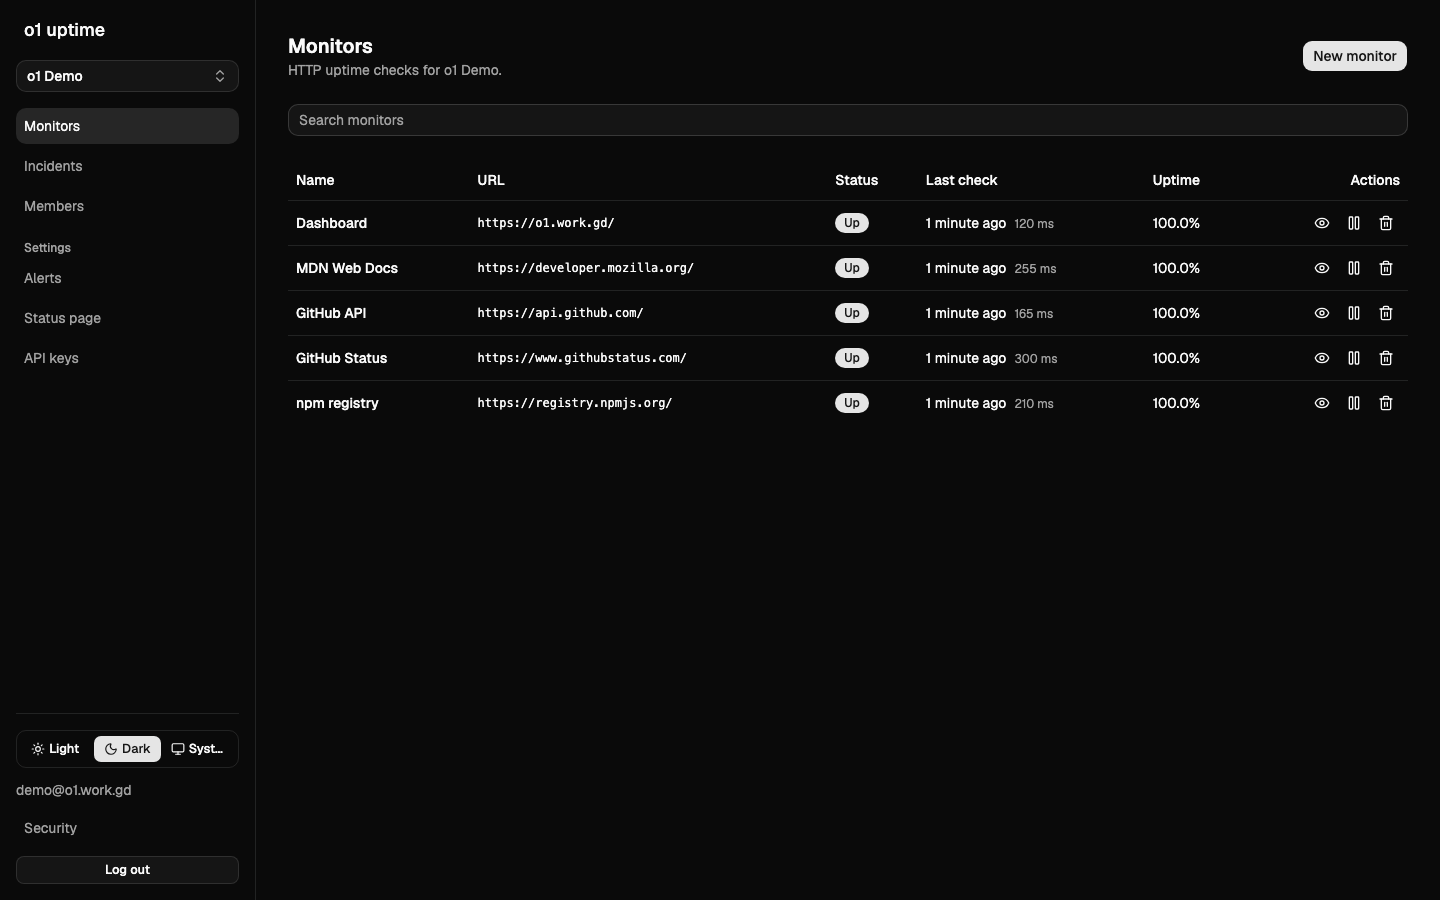
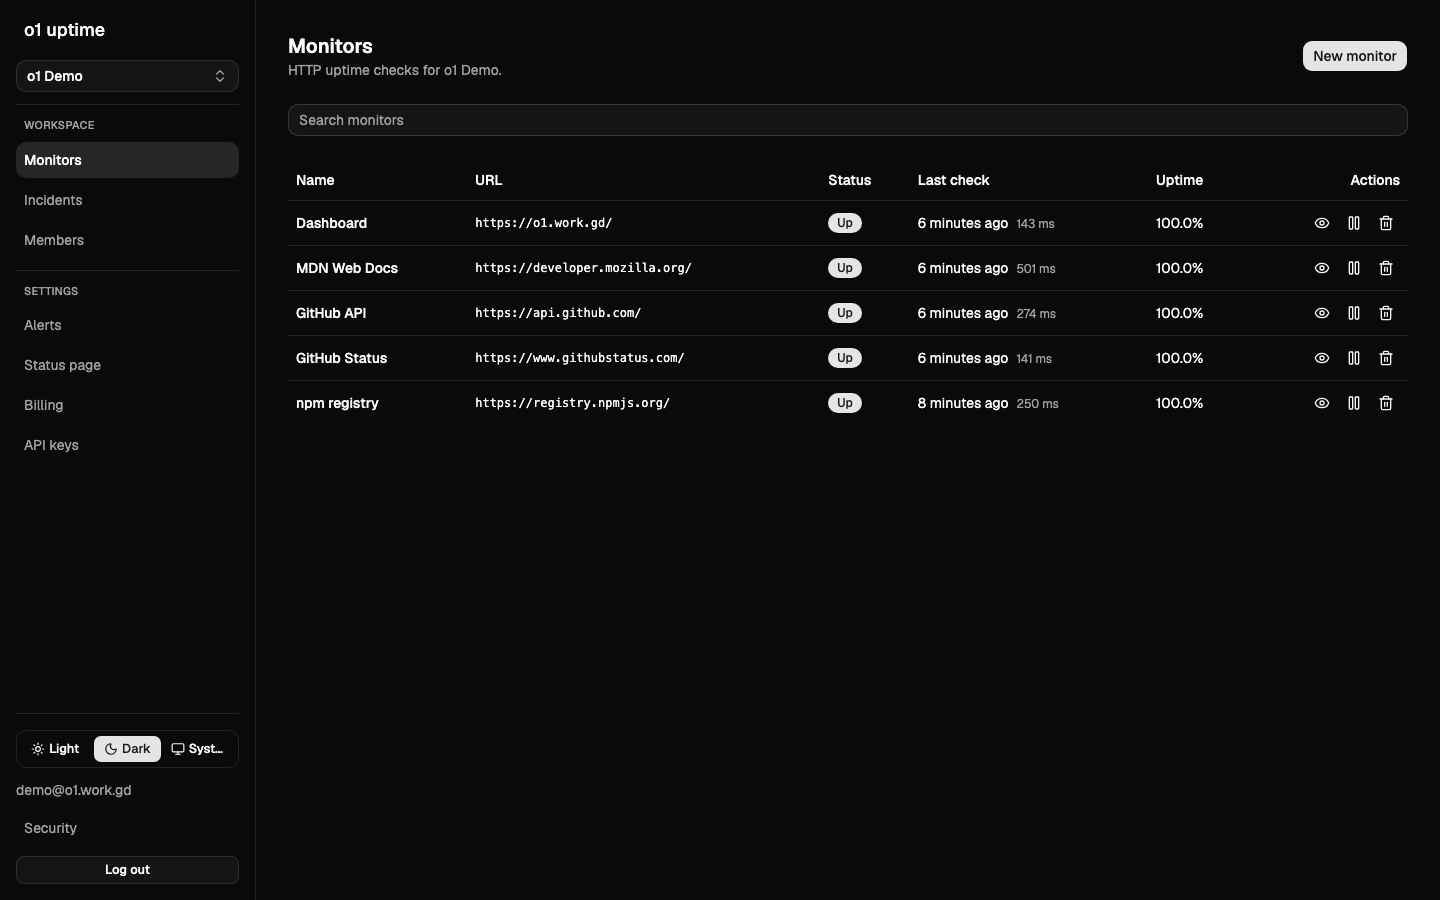
feat: group the sidebar navigation

diff --git a/web/src/components/layout/Sidebar.tsx b/web/src/components/layout/Sidebar.tsx
@@ -1,3 +1,4 @@
+import type { ReactNode } from 'react';
 import { Link } from '@tanstack/react-router';
 import { UserMenu } from './UserMenu';
 import { WorkspaceSwitcher } from './WorkspaceSwitcher';
@@ -11,61 +12,67 @@ export interface SidebarProps {
 }
 
 const linkClass =
-	'flex h-9 items-center rounded-lg px-2 text-sm text-muted-foreground hover:bg-muted hover:text-foreground [&[aria-current=page]]:text-foreground';
+	'flex h-9 items-center rounded-lg px-2 text-sm text-muted-foreground hover:bg-muted hover:text-foreground [&[aria-current=page]]:bg-muted [&[aria-current=page]]:font-medium [&[aria-current=page]]:text-foreground';
 const activeClass = 'bg-muted';
+
+function NavGroup({ title, children }: { title: string; children: ReactNode }) {
+	return (
+		<div className="space-y-1 border-t pt-3 first:border-t-0 first:pt-0">
+			<h2 className="px-2 pb-1 text-[11px] font-medium tracking-wide text-muted-foreground uppercase">
+				{title}
+			</h2>
+			{children}
+		</div>
+	);
+}
 
 export function Sidebar({ me, currentWorkspace, onNavigate }: SidebarProps) {
 	return (
-		<nav aria-label="Main" className="flex flex-1 flex-col gap-4">
+		<nav aria-label="Main" className="flex flex-1 flex-col gap-3">
 			<WorkspaceSwitcher
 				workspaces={me.workspaces}
 				current={currentWorkspace}
 				onNavigate={onNavigate}
 			/>
 
-			<div className="space-y-1">
-				{currentWorkspace ? (
-					<>
-						<Link
-							to="/w/$workspaceSlug/monitors"
-							params={{ workspaceSlug: currentWorkspace.slug }}
-							className={linkClass}
-							activeProps={{ className: activeClass }}
-							onClick={onNavigate}
-						>
-							Monitors
-						</Link>
-						<Link
-							to="/w/$workspaceSlug/incidents"
-							params={{ workspaceSlug: currentWorkspace.slug }}
-							className={linkClass}
-							activeProps={{ className: activeClass }}
-							onClick={onNavigate}
-						>
-							Incidents
-						</Link>
-						<Link
-							to="/w/$workspaceSlug/members"
-							params={{ workspaceSlug: currentWorkspace.slug }}
-							className={linkClass}
-							activeProps={{ className: activeClass }}
-							onClick={onNavigate}
-						>
-							Members
-						</Link>
-					</>
-				) : (
-					<p className="px-2 text-xs text-muted-foreground">
-						Select a workspace to manage monitors.
-					</p>
-				)}
-			</div>
+			{currentWorkspace ? (
+				<NavGroup title="Workspace">
+					<Link
+						to="/w/$workspaceSlug/monitors"
+						params={{ workspaceSlug: currentWorkspace.slug }}
+						className={linkClass}
+						activeProps={{ className: activeClass }}
+						onClick={onNavigate}
+					>
+						Monitors
+					</Link>
+					<Link
+						to="/w/$workspaceSlug/incidents"
+						params={{ workspaceSlug: currentWorkspace.slug }}
+						className={linkClass}
+						activeProps={{ className: activeClass }}
+						onClick={onNavigate}
+					>
+						Incidents
+					</Link>
+					<Link
+						to="/w/$workspaceSlug/members"
+						params={{ workspaceSlug: currentWorkspace.slug }}
+						className={linkClass}
+						activeProps={{ className: activeClass }}
+						onClick={onNavigate}
+					>
+						Members
+					</Link>
+				</NavGroup>
+			) : (
+				<p className="px-2 text-xs text-muted-foreground">
+					Select a workspace to manage monitors.
+				</p>
+			)}
 
 			{currentWorkspace && canManageAlertChannels(currentWorkspace.role) ? (
-				<div className="space-y-1">
-					<h2 className="px-2 text-xs font-medium text-muted-foreground">
-						Settings
-					</h2>
+				<NavGroup title="Settings">
 					<Link
 						to="/w/$workspaceSlug/settings/alerts"
 						params={{ workspaceSlug: currentWorkspace.slug }}
@@ -102,14 +109,11 @@ export function Sidebar({ me, currentWorkspace, onNavigate }: SidebarProps) {
 					>
 						API keys
 					</Link>
-				</div>
+				</NavGroup>
 			) : null}
 
 			{me.user.is_admin ? (
-				<div className="space-y-1">
-					<h2 className="px-2 text-xs font-medium text-muted-foreground">
-						Admin
-					</h2>
+				<NavGroup title="Admin">
 					<Link
 						to="/admin/workspaces"
 						className={linkClass}
@@ -134,7 +138,7 @@ export function Sidebar({ me, currentWorkspace, onNavigate }: SidebarProps) {
 					>
 						Security events
 					</Link>
-				</div>
+				</NavGroup>
 			) : null}
 
 			<div className="mt-auto border-t pt-4">
